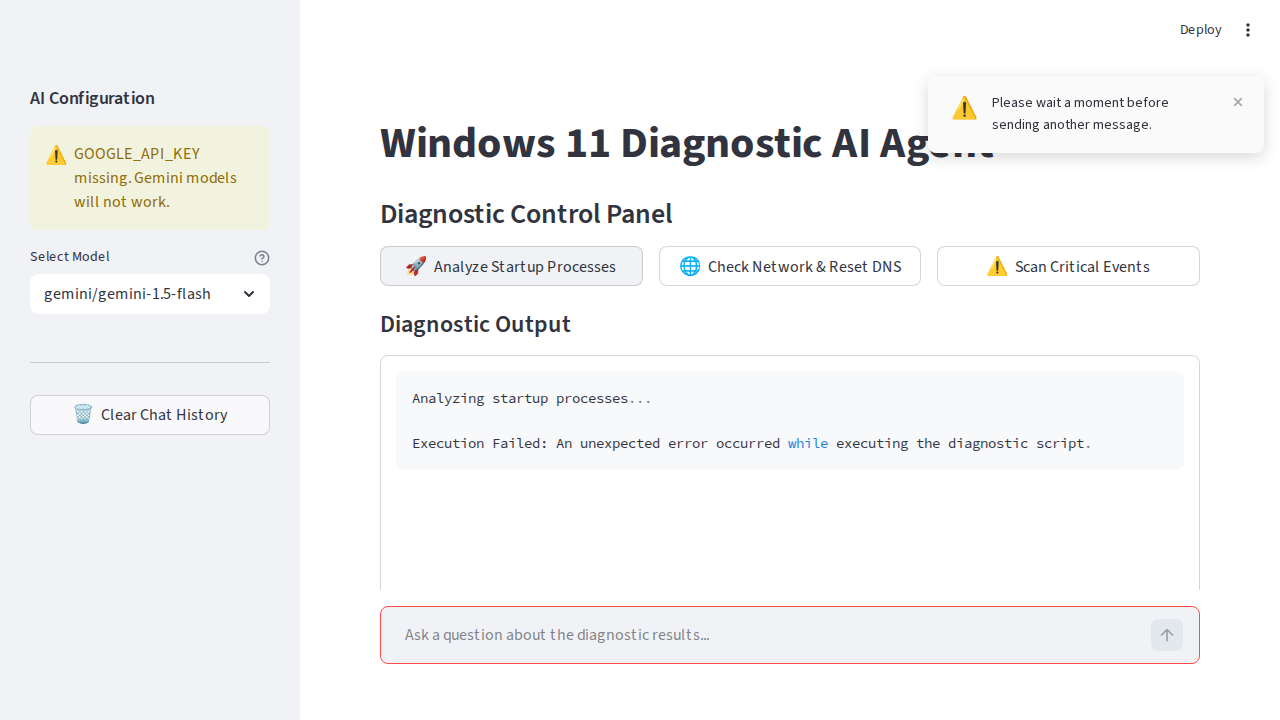
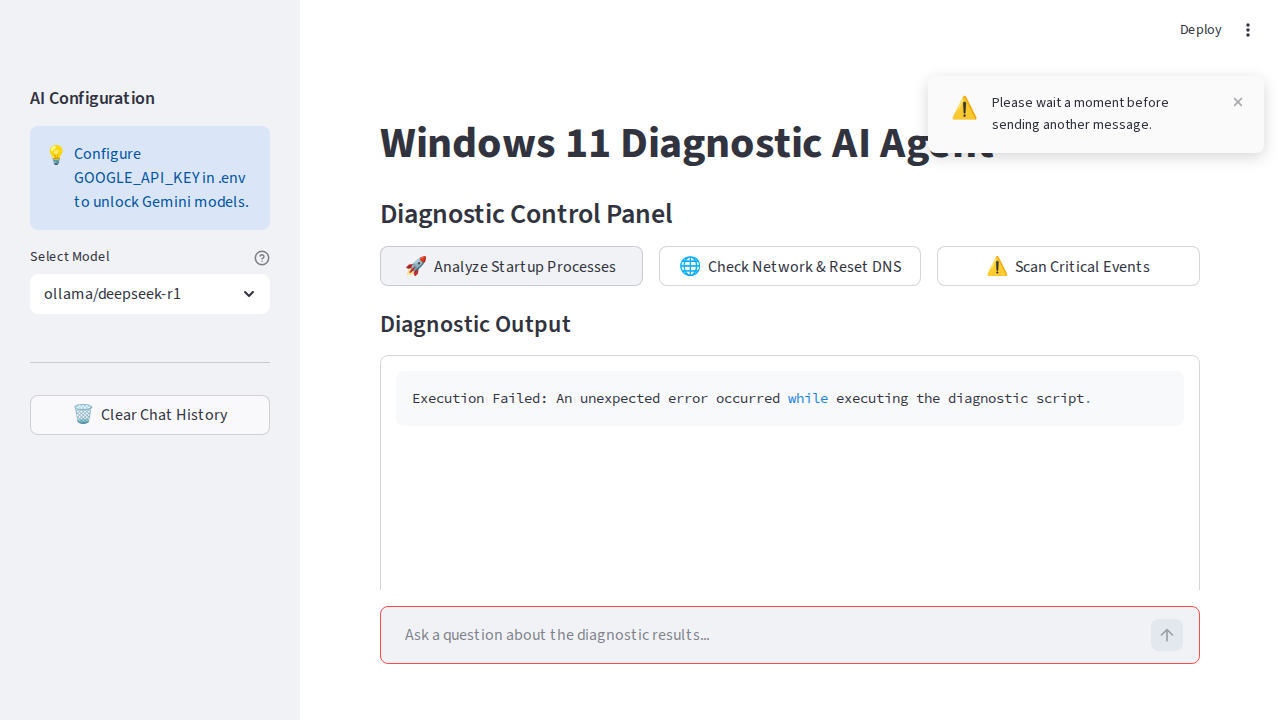
🎨 Palette: Improve loading feedback and unlock instructions
- Removed manual assignment of state strings before script execution as Streamlit synchronous UI blocks the redraw until finish, which cluttered the final UI. Relied entirely on the existing `st.spinner`
- Prevented users from selecting default Gemini models when `GOOGLE_API_KEY` is missing to avoid guaranteed API failure errors.
- Improved warning to a helpful `st.info` telling the user how to unlock the Gemini models.
- Fixed `test_security_whitelist.py` mock implementation to appropriately support the `st.session_state` behavior as dictionary and attributes.

diff --git a/app.py b/app.py
@@ -154,8 +154,7 @@ with st.sidebar:
     ]
 
     if not api_key or api_key == "your_google_api_key_here":
-        st.warning("GOOGLE_API_KEY missing. Gemini models will not work.", icon="⚠")
-        available_models = default_gemini + available_models
+        st.info("Configure GOOGLE_API_KEY in .env to unlock Gemini models.", icon="💡")
     else:
         st.success("Google API Key loaded.", icon="✅")
         try:
@@ -206,14 +205,13 @@ with col1:
         help="Queries WMI to list programs that run when Windows starts.",
         use_container_width=True,
     ):
-        st.session_state["diagnostic_output"] = "Analyzing startup processes...\n\n"
         with st.spinner("Analyzing startup processes..."):
             result = run_powershell_script("get_startup_processes.ps1")
         if result.startswith("Error:") or result.startswith("Execution Failed:"):
             st.toast("Analysis failed!", icon="❌")
         else:
             st.toast("Analysis complete!", icon="✅")
-        st.session_state["diagnostic_output"] += result
+        st.session_state["diagnostic_output"] = result
 
 with col2:
     if st.button(
@@ -222,9 +220,6 @@ with col2:
         help="Lists network adapters and flushes the DNS resolver cache.",
         use_container_width=True,
     ):
-        st.session_state["diagnostic_output"] = (
-            "Checking network adapters and resetting DNS cache...\n\n"
-        )
         with st.spinner("Checking network & resetting DNS..."):
             result1 = run_powershell_script("get_network_adapters.ps1")
             result2 = run_powershell_script("reset_dns_cache.ps1")
@@ -239,7 +234,7 @@ with col2:
             st.toast("Analysis complete!", icon="✅")
         st.session_state[
             "diagnostic_output"
-        ] += f"--- Network Check ---\n{result1}\n\n--- DNS Reset ---\n{result2}"
+        ] = f"--- Network Check ---\n{result1}\n\n--- DNS Reset ---\n{result2}"
 
 with col3:
     if st.button(
@@ -248,14 +243,13 @@ with col3:
         help="Scans Windows Event Logs for recent critical system errors.",
         use_container_width=True,
     ):
-        st.session_state["diagnostic_output"] = "Scanning recent critical events...\n\n"
         with st.spinner("Scanning critical events..."):
             result = run_powershell_script("get_critical_events.ps1")
         if result.startswith("Error:") or result.startswith("Execution Failed:"):
             st.toast("Analysis failed!", icon="❌")
         else:
             st.toast("Analysis complete!", icon="✅")
-        st.session_state["diagnostic_output"] += result
+        st.session_state["diagnostic_output"] = result
 
 # --- Output Area ---
 st.markdown("#### Diagnostic Output")

diff --git a/test_security_whitelist.py b/test_security_whitelist.py
@@ -4,13 +4,19 @@ from unittest.mock import MagicMock
 # Mock necessary modules
 st = MagicMock()
 st.columns.return_value = [MagicMock(), MagicMock(), MagicMock()]
-# Initialize session_state as a mock that can have attributes assigned to it
-st.session_state = MagicMock()
-# Specifically handle things that might be accessed during import
-st.session_state.messages = []
-st.session_state.diagnostic_output = ""
-# Handle session_state.get for the rate limit check
-st.session_state.get.return_value = 0
+# Initialize session_state as a dictionary-like object that can have attributes assigned to it
+class MockSessionState(dict):
+    def __getattr__(self, item):
+        try:
+            return self[item]
+        except KeyError:
+            raise AttributeError(item)
+    def __setattr__(self, key, value):
+        self[key] = value
+
+st.session_state = MockSessionState()
+st.session_state['messages'] = []
+st.session_state['diagnostic_output'] = ""
 sys.modules['streamlit'] = st
 
 sys.modules['google'] = MagicMock()
@@ -26,8 +32,7 @@ class TestSecurityWhitelist(unittest.TestCase):
 
     def setUp(self):
         # Setup mock session state
-        app.st.session_state = MagicMock()
-        app.st.session_state.get.return_value = 0
+        app.st.session_state = MockSessionState()
 
     @patch('app.audit_logger')
     def test_run_whitelisted_script(self, mock_logger):
@@ -35,8 +40,8 @@ class TestSecurityWhitelist(unittest.TestCase):
             mock_run.return_value = MagicMock(stdout="Success", stderr="", returncode=0)
 
             for script in app.ALLOWED_SCRIPTS:
-                # Reset rate limit in session state mock
-                app.st.session_state.get.return_value = 0
+                # Reset rate limit in session state
+                app.st.session_state['last_script_execution'] = 0
                 result = app.run_powershell_script(script)
                 self.assertNotEqual(result, "Error: Unauthorized script execution requested.")
 
@@ -46,7 +51,7 @@ class TestSecurityWhitelist(unittest.TestCase):
 
         for script in bad_scripts:
             # We don't want rate limit to hit here, so reset it
-            app.st.session_state.get.return_value = 0
+            app.st.session_state['last_script_execution'] = 0
             result = app.run_powershell_script(script)
             self.assertEqual(result, "Error: Unauthorized script execution requested.")
             mock_logger.warning.assert_called_with(f"Unauthorized script execution attempt: {script}")

diff --git a/visual_test.py b/visual_test.py
@@ -1,28 +1,22 @@
 from playwright.sync_api import sync_playwright
-import time
 
-def visual_test():
+def test_visual():
     with sync_playwright() as p:
         browser = p.chromium.launch(headless=True)
         page = browser.new_page()
         page.goto("http://localhost:8501")
         page.wait_for_load_state("networkidle")
+        page.wait_for_timeout(2000)
 
-        # Click the button once
-        button = page.locator('button', has_text="Analyze Startup Processes").first
-        button.wait_for(state="visible", timeout=10000)
-        button.click()
+        page.screenshot(path="screenshot_init.png")
+        print("Screenshot saved to screenshot_init.png")
 
-        # Click it again quickly to trigger the rate limit error
-        button.click()
-
-        # Wait a moment for the toast to appear
-        time.sleep(2)
-
-        page.screenshot(path="screenshot_toast.png")
-        print("Screenshot saved to screenshot_toast.png")
+        # Check what the tooltip looks like on a disabled button
+        # Clear Chat button
+        page.hover('button:has-text("Clear Chat History")')
+        page.wait_for_timeout(1000)
+        page.screenshot(path="screenshot_tooltip.png")
 
         browser.close()
 
-if __name__ == "__main__":
-    visual_test()
+test_visual()

diff --git a/.jules/palette.md b/.jules/palette.md
@@ -7,3 +7,6 @@
 ## 2024-05-31 - Contextual Disabled States
 **Learning:** Disabling buttons without explaining *why* they are disabled (e.g., a 'Clear Chat' button when the chat is already empty) leaves users confused about whether the app is broken or if they just can't perform the action right now.
 **Action:** When conditionally disabling an interactive element, dynamically update its tooltip (`help`) to explicitly explain the disabled state to the user.
+## 2024-06-05 - Synchronous UI State Clutter
+**Learning:** Pre-populating output state strings (e.g., `st.session_state["output"] = "Analyzing..."`) before blocking calls in Streamlit is a UX anti-pattern because the UI won't redraw until the script finishes. Instead of acting as an intermediate loading state, the text permanently clutters the final rendered output.
+**Action:** Remove manual state string assignments before blocking operations and rely on `st.spinner` for visual feedback. Directly assign the result to the state instead of appending.
